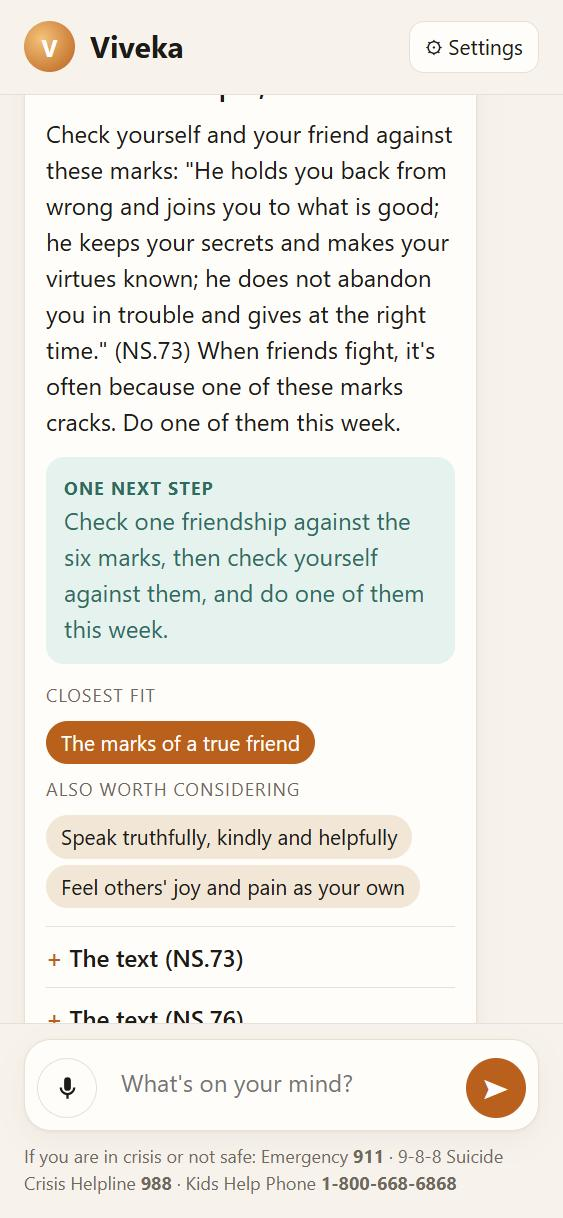
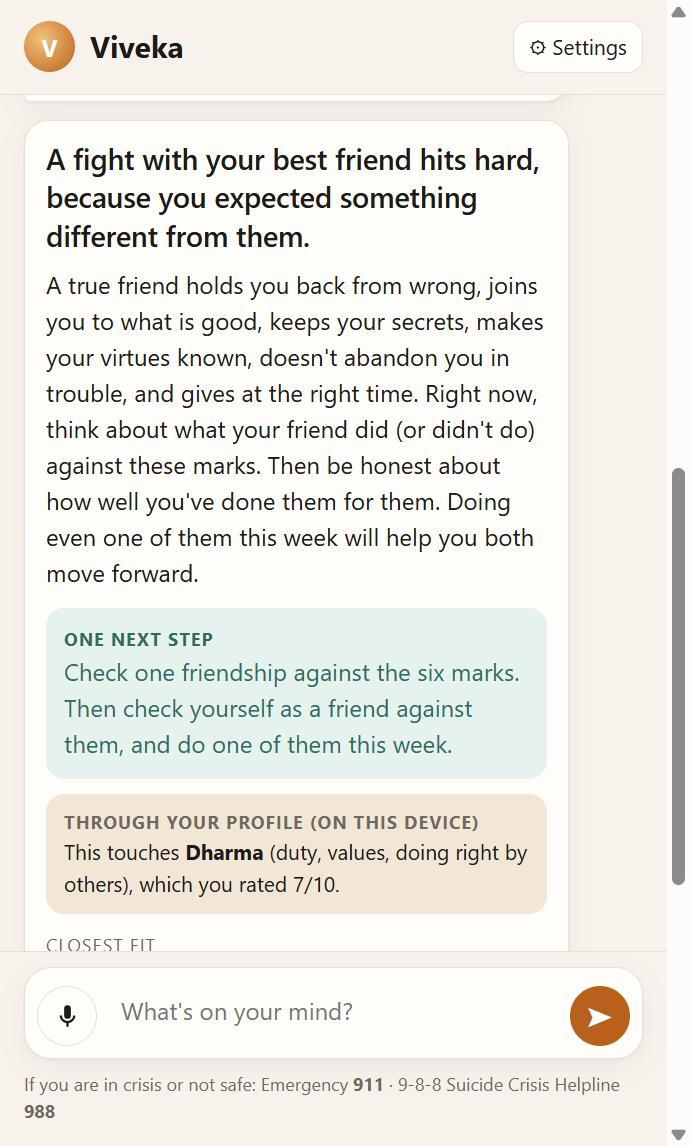
Big Five (Mini-IPIP) and life-map onboarding, kept on the device; profile note; AI writer keeps message and context apart; Desk screenshots tool

diff --git a/scripts/serve_page.html b/scripts/serve_page.html
@@ -40,6 +40,14 @@ textarea{flex:1;border:0;outline:0;resize:none;min-height:44px;max-height:160px;
 .panel h2{margin:0 0 6px;font-size:20px}.panel label{display:block;margin:14px 0 6px;font-weight:600}
 .panel input,.panel select{width:100%;border:1px solid var(--line);border-radius:10px;padding:10px;background:var(--bg);color:var(--fg);font:inherit}
 .sw{display:flex;align-items:center;gap:8px;margin-top:14px}
+.steps{display:flex;gap:4px;margin:0 0 12px}.steps i{flex:1;height:4px;border-radius:9px;background:var(--line)}.steps i.on{background:var(--acc)}
+.panel{max-height:92vh;overflow:auto}.lk{margin:10px 0 0}.lk p{margin:0 0 6px;font-size:15px}.lk .sc{display:flex;gap:4px}.lk .sc button{flex:1;border:1px solid var(--line);background:var(--bg);color:var(--fg);border-radius:8px;padding:6px 0;font:inherit;font-size:13px;cursor:pointer}.lk .sc button.on{background:var(--acc);color:#fff;border-color:var(--acc)}
+.ends{display:flex;justify-content:space-between;font-size:11px;color:var(--mut);margin-top:2px}
+.tr{margin:8px 0}.tr .r{display:flex;justify-content:space-between;font-size:14px}.tr .k{height:8px;border-radius:9px;background:var(--line);overflow:hidden;margin-top:3px}.tr .k i{display:block;height:100%;background:var(--acc)}
+.map{display:grid;grid-template-columns:1fr 1fr;gap:8px;margin-top:10px}.tile{border:1px solid var(--line);border-radius:12px;padding:10px;background:var(--bg)}.tile b{display:block}.tile .mut{font-size:12px}
+.tile input[type=range]{width:100%;accent-color:var(--acc)}.tile .val{font-weight:700;color:var(--acc)}
+.seg{display:flex;border:1px solid var(--line);border-radius:999px;overflow:hidden;margin-top:8px}.seg button{flex:1;border:0;background:none;color:var(--fg);padding:7px;font:inherit;font-size:14px;cursor:pointer}.seg button.on{background:var(--fg);color:var(--bg)}
+.lens{background:var(--soft);border-radius:12px;padding:10px 12px;margin-top:10px;font-size:14px}.lens>b:first-child{display:block;font-size:12px;letter-spacing:.06em;text-transform:uppercase;color:var(--mut)}
 form.case textarea,form.case input,form.case select{width:100%;border:1px solid var(--line);border-radius:10px;padding:8px;background:var(--bg);color:var(--fg);font:inherit;margin:4px 0}
 </style></head><body><div class="app">
 <header><div class="logo">V</div><h1>Viveka</h1><button class="icon" id="devbtn" hidden onclick="showCase()">Test case</button><button class="icon" onclick="openSettings()" title="Settings">⚙ Settings</button></header>
@@ -49,17 +57,13 @@ form.case textarea,form.case input,form.case select{width:100%;border:1px solid 
 <textarea id="q" rows="1" placeholder="What's on your mind?"></textarea><button class="send" onclick="send()" title="Send">➤</button></div>
 <div class="foot" id="foot">Local test page · not published · nothing you write is saved</div>
 </footer></div>
-<div class="overlay" id="onb" hidden><div class="panel">
-<h2>Before we start</h2><p class="mut">Two quick questions, so the help lines and answers fit you. Your answers stay on this device.</p>
-<label for="o_age">Your age</label><input id="o_age" type="number" min="10" max="110" placeholder="e.g. 34">
-<label for="o_country">Where are you?</label><select id="o_country"><option value="CA">Canada</option><option value="IN">India</option><option value="US">United States</option><option value="UK">United Kingdom</option><option value="">Somewhere else</option></select>
-<p class="mut" style="margin-top:14px">Coming next: a short personality check (Big Five) and a life map (Dharma, Artha, Kama, Moksha).</p>
-<div class="row"><button class="btn" onclick="saveOnb()">Start</button></div></div></div>
+<div class="overlay" id="onb" hidden><div class="panel" id="onbp"></div></div>
 <div class="overlay" id="set" hidden><div class="panel">
 <h2>Settings</h2>
 <label for="s_age">Age</label><input id="s_age" type="number" min="10" max="110">
 <label for="s_country">Country (for help lines)</label><select id="s_country"><option value="CA">Canada</option><option value="IN">India</option><option value="US">United States</option><option value="UK">United Kingdom</option><option value="">Somewhere else</option></select>
 <div class="sw"><input type="checkbox" id="s_ai"><span>AI-written answers <span class="mut">(uses Claude through the owner's subscription; your text leaves this device; testing only)</span></span></div>
+<div class="row"><button class="btn ghost" onclick="closeSettings();showProfile()">Your profile</button><button class="btn ghost" onclick="closeSettings();onb(2)">Redo personality and life map</button></div>
 <div class="row"><button class="btn" onclick="saveSettings()">Save</button><button class="btn ghost" onclick="closeSettings()">Cancel</button><button class="btn ghost" onclick="resetAll()">Forget me</button></div></div></div>
 <div class="overlay" id="casebox" hidden><div class="panel">
 <h2>Add a test case</h2><p class="mut">Developer only. A realistic situation the engine has never seen, and what a good answer must do. Scored once before anyone tunes against it.</p>
@@ -97,6 +101,7 @@ const a=await post('/answer',{q:cur.q,context:ctx,profile:profile(),ai:!!(prof&&
 a.cards.filter(c=>c.kind!=='support').forEach(card);
 let h=`<div class="opening">${esc(a.opening)}</div><p>${esc(a.body)}</p>`;
 if(a.next_step)h+=`<div class="step"><b>One next step</b>${esc(a.next_step)}</div>`;
+h+=lensNote(a.aims);
 if(a.closest)h+=`<div class="fit"><div class="lab">Closest fit</div><div><span class="tagc top">${esc(a.closest)}</span></div>${a.also.length?`<div class="lab">Also worth considering</div><div>${a.also.map(x=>`<span class="tagc">${esc(x)}</span>`).join('')}</div>`:''}</div>`;
 for(const s of a.sources)h+=`<details><summary>The text (${esc(s.id)})</summary><p>"${esc(s.english)}"</p><details><summary>Sanskrit</summary><div class="dev">${esc(s.devanagari)}</div></details></details>`;
 if(a.why)h+=`<details><summary>Why this fits you</summary><p>${esc(a.why)}</p></details>`;
@@ -106,11 +111,51 @@ if(a.example)h+=`<details><summary>A story from the texts</summary><p><b>${esc(a
 h+=`<p class="draft" style="margin-top:10px">Draft · ${a.reviewed} of ${a.sources.length} verses reviewed by a Sanskrit reader · written by ${esc(a.written_by)}</p>`;
 add(h,'v');$('foot').innerHTML='If you are in crisis or not safe: '+a.footer.map(x=>`${esc(x.name.split('(')[0].trim())} <b>${esc(x.number)}</b>`).join(' · ');cur=null}
 async function post(u,b){try{return await(await fetch(u,{method:'POST',headers:{'Content-Type':'application/json'},body:JSON.stringify(b)})).json()}catch(e){return{error:'Could not reach the local server.'}}}
-function saveOnb(){prof={age:$('o_age').value,country:$('o_country').value,ai:true};store.set(prof);$('onb').hidden=true;greet()}
+// Mini-IPIP (Donnellan et al., 2006): 20 public-domain IPIP items. r = reverse-scored.
+const IPIP=[["E","Am the life of the party."],["A","Sympathize with others' feelings."],["C","Get chores done right away."],["N","Have frequent mood swings."],["O","Have a vivid imagination."],
+["E","Don't talk a lot.",1],["A","Am not interested in other people's problems.",1],["C","Often forget to put things back in their proper place.",1],["N","Am relaxed most of the time.",1],["O","Am not interested in abstract ideas.",1],
+["E","Talk to a lot of different people at parties."],["A","Feel others' emotions."],["C","Like order."],["N","Get upset easily."],["O","Have difficulty understanding abstract ideas.",1],
+["E","Keep in the background.",1],["A","Am not really interested in others.",1],["C","Make a mess of things.",1],["N","Seldom feel blue.",1],["O","Do not have a good imagination.",1]];
+const TRAITS={O:["Openness","curious, imaginative"],C:["Conscientiousness","organised, dependable"],E:["Extraversion","outgoing, energised by people"],A:["Agreeableness","warm, cooperative"],N:["Emotional sensitivity","feels stress and ups and downs strongly"]};
+const PA=[["dharma","Dharma","duty, values, doing right by others"],["artha","Artha","work, money, security"],["kama","Kama","joy, love, beauty, pleasure"],["moksha","Moksha","inner freedom, meaning, peace"]];
+const IK=[["love","What you love","what lights you up"],["good","What you're good at","your strengths"],["need","What the world needs","how you help others"],["paid","What you can be paid for","your livelihood"]];
+let draft={};
+function onb(step){draft={...(prof||{age:'',country:'CA',ai:true}),...draft};$('onb').hidden=false;const P=$('onbp');const bar=`<div class="steps">${[1,2,3,4].map(i=>`<i class="${i<=step?'on':''}"></i>`).join('')}</div>`;
+if(step===1){P.innerHTML=`${bar}<h2>Before we start</h2><p class="mut">So the help lines and answers fit you. Everything you enter stays on this device.</p>
+<label for="o_age">Your age</label><input id="o_age" type="number" min="10" max="110" placeholder="e.g. 34" value="${esc(draft.age||'')}">
+<label for="o_country">Where are you?</label><select id="o_country">${[["CA","Canada"],["IN","India"],["US","United States"],["UK","United Kingdom"],["","Somewhere else"]].map(([v,n])=>`<option value="${v}" ${draft.country===v?'selected':''}>${n}</option>`).join('')}</select>
+<div class="row"><button class="btn" onclick="draft.age=$('o_age').value;draft.country=$('o_country').value;onb(2)">Next</button></div>`}
+if(step===2){draft.b5=draft.b5||{};P.innerHTML=`${bar}<h2>How you tend to be</h2><p class="mut">20 quick statements (a public-domain Big Five measure). How accurately does each describe you? Not a test or a diagnosis.</p>
+${IPIP.map((it,i)=>`<div class="lk"><p>I ${esc(it[1].charAt(0).toLowerCase()+it[1].slice(1))}</p><div class="sc" data-i="${i}">${[1,2,3,4,5].map(v=>`<button class="${draft.b5[i]===v?'on':''}" onclick="rate(this,${i},${v})">${v}</button>`).join('')}</div></div>`).join('')}
+<div class="ends"><span>1 = very inaccurate</span><span>5 = very accurate</span></div>
+<div class="row"><button class="btn" onclick="onb(3)">Next</button><button class="btn ghost" onclick="draft.b5=null;onb(3)">Skip</button></div><p class="mut" id="b5n"></p>`}
+if(step===3){draft.map=draft.map||{type:'pa',v:{}};const m=draft.map,L=m.type==='pa'?PA:IK;P.innerHTML=`${bar}<h2>Your life map</h2><p class="mut">How settled or fulfilled does each part of your life feel right now? 1 = not at all, 10 = completely.</p>
+<div class="seg"><button class="${m.type==='pa'?'on':''}" onclick="draft.map={type:'pa',v:{}};onb(3)">Dharma · Artha · Kama · Moksha</button><button class="${m.type==='ik'?'on':''}" onclick="draft.map={type:'ik',v:{}};onb(3)">Ikigai</button></div>
+<div class="map">${L.map(([k,n,d])=>`<div class="tile"><b>${n}</b><span class="mut">${d}</span><input type="range" min="1" max="10" value="${m.v[k]||5}" oninput="draft.map.v['${k}']=+this.value;this.nextElementSibling.textContent=this.value"><span class="val">${m.v[k]||5}</span></div>`).join('')}</div>
+<div class="row"><button class="btn" onclick="L3();onb(4)">Next</button><button class="btn ghost" onclick="draft.map=null;onb(4)">Skip</button></div>`}
+if(step===4){prof={...draft};store.set(prof);P.innerHTML=`${bar}<h2>Your profile</h2><p class="mut">Kept only on this device. It shapes how Viveka frames its suggestions, never what is true.</p>${profileHTML()}<div class="row"><button class="btn" onclick="$('onb').hidden=true;draft={};greet()">Start</button></div>`}}
+function L3(){const L=draft.map.type==='pa'?PA:IK;L.forEach(([k])=>{if(!draft.map.v[k])draft.map.v[k]=5})}
+function rate(b,i,v){draft.b5[i]=v;b.parentElement.querySelectorAll('button').forEach(x=>x.classList.toggle('on',x===b));const n=Object.keys(draft.b5).length;$('b5n').textContent=n<20?`${n} of 20 answered`:'All answered'}
+function big5(b5){if(!b5)return null;const sum={},cnt={};IPIP.forEach((it,i)=>{const v=b5[i];if(!v)return;sum[it[0]]=(sum[it[0]]||0)+(it[2]?6-v:v);cnt[it[0]]=(cnt[it[0]]||0)+1});
+const out={};for(const t in TRAITS)if(cnt[t])out[t]=Math.round(((sum[t]/cnt[t])-1)/4*100);return Object.keys(out).length?out:null}
+function profileHTML(){const p=prof||{},b=big5(p.b5),m=p.map;let h='';
+if(b)h+=`<div class="lab" style="margin-top:8px;font-size:12px;letter-spacing:.06em;text-transform:uppercase;color:var(--mut)">How you tend to be</div>`+Object.entries(TRAITS).filter(([t])=>t in b).map(([t,[n,d]])=>`<div class="tr"><div class="r"><span>${n} <span class="mut">· ${d}</span></span><span class="mut">${b[t]<35?'lower':b[t]>65?'higher':'middle'}</span></div><div class="k"><i style="width:${b[t]}%"></i></div></div>`).join('');
+if(m){const L=m.type==='pa'?PA:IK;h+=`<div style="margin-top:12px;font-size:12px;letter-spacing:.06em;text-transform:uppercase;color:var(--mut)">Your life map${m.type==='ik'?' (Ikigai)':''}</div><div class="map">${L.map(([k,n,d])=>`<div class="tile"><b>${n} <span class="val">${m.v[k]}/10</span></b><span class="mut">${d}</span><div class="tr"><div class="k"><i style="width:${m.v[k]*10}%"></i></div></div></div>`).join('')}</div>`}
+return h||'<p class="mut">No personality or life map answers yet.</p>'}
+function showProfile(){$('onb').hidden=false;$('onbp').innerHTML=`<h2>Your profile</h2><p class="mut">Kept only on this device.</p>${profileHTML()}<div class="row"><button class="btn" onclick="$('onb').hidden=true">Close</button><button class="btn ghost" onclick="onb(2)">Redo</button></div>`}
+// A short note computed on this device only: nothing about the profile is sent anywhere.
+function lensNote(aims){const p=prof||{},b=big5(p.b5),m=p.map,out=[];
+if(m&&aims&&aims.length){if(m.type==='pa'){const a=PA.find(x=>x[0]===aims[0]);if(a){const v=m.v[a[0]];out.push(`This touches <b>${a[1]}</b> (${a[2]}), which you rated ${v}/10${v<=4?': an area that feels unsettled, so go gently':v>=8?': a strength you can lean on':''}.`)}}
+else{const map={artha:'paid',dharma:'need',kama:'love'};const k=map[aims[0]];const a=IK.find(x=>x[0]===k);if(a)out.push(`This touches <b>${a[1]}</b>, which you rated ${m.v[k]}/10.`)}}
+if(b){if(b.C!==undefined&&b.C<35)out.push('You said routines are not your strongest suit: make the next step small and give it a time.');
+else if(b.N!==undefined&&b.N>65)out.push('You said you feel things strongly: take the next step slowly, and pause if it feels heavy.');
+else if(b.E!==undefined&&b.E<35&&aims)out.push('If talking to people drains you, a written message is a fine first step.')}
+return out.length?`<div class="lens"><b>Through your profile (on this device)</b>${out.join(' ')}</div>`:''}
+function saveOnb(){onb(2)}
 function openSettings(){const p=prof||{};$('s_age').value=p.age||'';$('s_country').value=p.country??'CA';$('s_ai').checked=!!p.ai;$('set').hidden=false}
 function closeSettings(){$('set').hidden=true}
 function saveSettings(){prof={...(prof||{}),age:$('s_age').value,country:$('s_country').value,ai:$('s_ai').checked};store.set(prof);closeSettings()}
-function resetAll(){store.clear();prof=null;closeSettings();$('onb').hidden=false}
+function resetAll(){store.clear();prof=null;draft={};closeSettings();onb(1)}
 function showCase(){$('casebox').hidden=false}
 async function addCase(e){e.preventDefault();const b={text:$('ct').value.trim(),category:$('cc').value,safety:$('cs').value||null,good_answer:$('cg').value.trim(),author:$('cn').value.trim()};
 if(!b.text||!b.good_answer||!b.author){$('cout').innerHTML='<p class="mut">Please fill in the situation, what a good answer must do, and your name.</p>';return}
@@ -120,5 +165,5 @@ if(rec){rec.stop();return}rec=new SR();rec.lang='en-IN';rec.interimResults=true;
 rec.onresult=e=>{let t='';for(const r of e.results)t+=r[0].transcript;q.value=(base?base+' ':'')+t};rec.onend=()=>{m.classList.remove('rec');rec=null};rec.onerror=()=>{m.classList.remove('rec');rec=null};
 m.classList.add('rec');$('foot').textContent="Listening… Voice is turned into text by your browser's speech service, which may send the audio to its provider.";rec.start()}
 $('q').addEventListener('keydown',e=>{if(e.key==='Enter'&&!e.shiftKey){e.preventDefault();send()}});
-if(!prof)$('onb').hidden=false;else greet();
+if(!prof)onb(1);else greet();
 </script></body></html>

diff --git a/scripts/brief.py b/scripts/brief.py
@@ -13,12 +13,45 @@ SHOTS = ROOT / "claude-chat" / "screenshots"
 REPO = "https://github.com/yjzw6km8y5-hub/viveka"
 RAW = "https://raw.githubusercontent.com/yjzw6km8y5-hub/viveka/main"
 
-INTERFACE = """### Screen 1: Onboarding (first visit only)
-- Panel title **Before we start**. Text: "Two quick questions, so the help lines and answers fit you. Your answers stay on this device."
-- **Your age**: number field, placeholder "e.g. 34".
-- **Where are you?**: Canada (default) / India / United States / United Kingdom / Somewhere else.
-- Note: "Coming next: a short personality check (Big Five) and a life map (Dharma, Artha, Kama, Moksha)."
-- Button **Start**. The answers are kept in the browser on this device only; nothing is sent anywhere except with each question to the local engine.
+INTERFACE = """### Screen 1: Onboarding (first visit only; four steps with a progress bar)
+1. **Before we start:** "So the help lines and answers fit you. Everything you enter stays on this device."
+   - **Your age**: number, placeholder "e.g. 34".
+   - **Where are you?**: Canada (default) / India / United States / United Kingdom / Somewhere else.
+   - **Next**.
+2. **How you tend to be:** "20 quick statements (a public-domain Big Five measure). How accurately does each describe you? Not a test or a diagnosis."
+   - The 20 Mini-IPIP statements, each with buttons 1-5 ("1 = very inaccurate", "5 = very accurate"):
+     - "I am the life of the party."
+     - "I sympathize with others' feelings."
+     - "I get chores done right away."
+     - "I have frequent mood swings."
+     - "I have a vivid imagination."
+     - "I don't talk a lot."
+     - "I am not interested in other people's problems."
+     - "I often forget to put things back in their proper place."
+     - "I am relaxed most of the time."
+     - "I am not interested in abstract ideas."
+     - "I talk to a lot of different people at parties."
+     - "I feel others' emotions."
+     - "I like order."
+     - "I get upset easily."
+     - "I have difficulty understanding abstract ideas."
+     - "I keep in the background."
+     - "I am not really interested in others."
+     - "I make a mess of things."
+     - "I seldom feel blue."
+     - "I do not have a good imagination."
+   - A counter ("N of 20 answered"). **Next** and **Skip**.
+3. **Your life map:** "How settled or fulfilled does each part of your life feel right now? 1 = not at all, 10 = completely."
+   - A switch: **Dharma · Artha · Kama · Moksha** | **Ikigai**.
+   - Four tiles, each with a 1-10 slider:
+     - Dharma "duty, values, doing right by others", Artha "work, money, security", Kama "joy, love, beauty, pleasure", Moksha "inner freedom, meaning, peace".
+     - Or, for Ikigai: "What you love", "What you're good at", "What the world needs", "What you can be paid for".
+   - **Next** and **Skip**.
+4. **Your profile:** "Kept only on this device. It shapes how Viveka frames its suggestions, never what is true."
+   - Five trait bars: Openness, Conscientiousness, Extraversion, Agreeableness, Emotional sensitivity. Each has a short description and is marked lower / middle / higher.
+   - The life map as four tiles with N/10 bars.
+   - **Start**.
+- Everything stays in the browser on this device. The profile itself is never sent to the server or to the AI.
 
 ### Screen 2: Conversation (home)
 - Header: "V" logo, **Viveka**, **⚙ Settings**. (A **Test case** button appears only with `?dev=1`.)
@@ -50,6 +83,7 @@ INTERFACE = """### Screen 1: Onboarding (first visit only)
 - **Opening:** one sentence to the person, in large text, e.g. "After a fight with someone close, it can help to look at what a true friend does."
 - **Body:** a short paragraph (AI-written from the checked passages, or Viveka's own text if AI is off or fails the check).
 - **ONE NEXT STEP:** a green box with one action.
+- **THROUGH YOUR PROFILE (ON THIS DEVICE):** a sand-coloured note worked out in the browser. For example, "This touches **Dharma** (duty, values, doing right by others), which you rated 7/10." It adds one tip from the Big Five when relevant: low conscientiousness gives "make the next step small and give it a time"; high emotional sensitivity gives "take the next step slowly…"; low extraversion gives "a written message is a fine first step".
 - **CLOSEST FIT:** the principle, as an orange tag.
 - **ALSO WORTH CONSIDERING:** one or two principles, as tags.
 - **Folded sections:**
@@ -60,6 +94,7 @@ INTERFACE = """### Screen 1: Onboarding (first visit only)
 ### Screen 5: Settings (⚙)
 - **Age**, **Country (for help lines)**.
 - **AI-written answers** checkbox, labelled "uses Claude through the owner's subscription; your text leaves this device; testing only".
+- Buttons **Your profile** (shows the profile summary) and **Redo personality and life map**.
 - Buttons **Save**, **Cancel**, **Forget me** (clears the device profile and shows onboarding again).
 
 ### Screen 6: Add a test case (developer only, `?dev=1`)

diff --git a/engine/llm.py b/engine/llm.py
@@ -29,6 +29,9 @@ Rules:
 - Then say what you suggest and why it fits THEIR situation, in 2-4 sentences.
 - Use only facts the person stated, and never join separate facts they did not join (for example, do not assume
   the person they mention is someone they live with). If unsure, leave it out.
+- "background" holds the person's answers to quick context questions (who they live with, constraints, timing).
+  Use it only to fit the advice; never claim it is connected to their message, and do not mention it unless it
+  clearly changes the advice.
 - You may quote a passage only word for word from the English given, in double quotes, with its ID in brackets,
   e.g. "..." (BG.2.47). Never quote or paraphrase anything not given. Never invent facts about the person.
 - Mention the alternative view in one sentence, fairly.
@@ -69,7 +72,8 @@ def available():
 def material(a):
     rec = a.get("recommendation") or {}
     return {
-        "message": a.get("question", ""),
+        "message": a.get("user_message") or a.get("question", ""),
+        "background": a.get("background", []),
         "understood": {k: a["understanding"].get(k) for k in ("situations", "people", "options", "age", "frames")},
         "recommended": {"principle": rec.get("name"), "meaning": rec.get("text"), "fit": rec.get("why_it_fits_you"),
                         "application": rec.get("application")},

diff --git a/scripts/desk_screens.py b/scripts/desk_screens.py
@@ -1,0 +1,34 @@
+"""Overwrite, in place, the four screenshots the Claude chat reads in AI Review Desk/Viveka (CLAUDE.md section 15).
+
+  python scripts/desk_screens.py HOME.jpg ANSWER_TOP.jpg ANSWER_DETAILS.jpg PHONE.jpg
+
+screen1 = home; screen2 = top of an answer ("I had a fight with my best friend"); screen3 = the details of that
+answer; screen4 = phone width, any answer. Take them in the browser pane at http://127.0.0.1:8765 after every UI change.
+The files are created by the Claude chat and must keep their identity: they are overwritten in place, never deleted,
+renamed or recreated. A missing file is reported, not created.
+"""
+import sys
+from pathlib import Path
+
+DESK = Path(__file__).resolve().parent.parent.parent / "AI Review Desk" / "Viveka"
+
+
+def main():
+    srcs = sys.argv[1:]
+    if len(srcs) != 4:
+        sys.exit(__doc__)
+    for i, src in enumerate(srcs, 1):
+        dest = DESK / f"screen{i}.jpg"
+        if not dest.exists():
+            print(f"{dest.name}: not found; not created (the Claude chat must create it)")
+            continue
+        data = Path(src).read_bytes()
+        with open(dest, "r+b") as f:  # same file, same Drive ID
+            f.seek(0)
+            f.write(data)
+            f.truncate()
+        print(f"{dest.name}: overwritten in place ({len(data)} bytes)")
+
+
+if __name__ == "__main__":
+    main()

diff --git a/scripts/serve.py b/scripts/serve.py
@@ -114,7 +114,10 @@ def compose(q, ctx):
 
 def respond(b):
     prof, region = profile_of(b)
-    a = answer(compose(str(b.get("q", ""))[:4000], b.get("context"))[:6000], prof, mode="internal", region=region)
+    q = str(b.get("q", ""))[:4000]
+    a = answer(compose(q, b.get("context"))[:6000], prof, mode="internal", region=region)
+    a["user_message"] = q  # the AI writer sees the message and the context answers separately
+    a["background"] = [x for x in compose("", b.get("context")).split(". ") if x.strip()]
     written, note = (llm.write(a) if b.get("ai") else (None, "AI writing is off in settings"))
     rec = a.get("recommendation") or {}
     meaning = rec.get("text", "")
@@ -130,6 +133,7 @@ def respond(b):
         "body": (written or {}).get("answer") or meaning,
         "next_step": (written or {}).get("next_step") or (a.get("next_step") or {}).get("text"),
         "closest": rec.get("name"), "also": [c["name"] for c in comp[1:3]],
+        "aims": lib["principles"].get(rec.get("principle"), {}).get("aims", []),
         "why": rec.get("why_it_fits_you"), "application": rec.get("application"),
         "sources": [{"id": s["id"], "english": s["english"], "devanagari": s["devanagari"]} for s in a.get("sources", [])],
         "alternative": (written or {}).get("alternative") or (a.get("challenge") or {}).get("text"),

diff --git a/claude-chat/BRIEF.md b/claude-chat/BRIEF.md
@@ -1,6 +1,6 @@
 # Viveka: brief for the Claude planning chat
 
-_Updated 2026-10-03 01:46 Eastern Daylight Time by `scripts/brief.py` after a cycle. Repo: https://github.com/yjzw6km8y5-hub/viveka_
+_Updated 2026-10-03 01:58 Eastern Daylight Time by `scripts/brief.py` after a cycle. Repo: https://github.com/yjzw6km8y5-hub/viveka_
 
 ## Current status
 
@@ -10,7 +10,7 @@ _Updated 2026-10-03 01:46 Eastern Daylight Time by `scripts/brief.py` after a cy
 
   0. **Owner decisions of 2026-10-03, build now** (CONTEXT.md):
      - **Context-first answer flow:** before recommending, ask about who they live with, where they are and their constraints. Offer a "just answer" option. Show safety and health help at once, and never delay them.
-     - **Visual onboarding on the try-it page** (age and country done 2026-10-03; still to build):
+     - **Visual onboarding on the try-it page** (done 2026-10-03: age, country, Big Five, life map):
        - a short Big Five questionnaire, using public-domain IPIP items
        - a Dharma / Artha / Kama / Moksha life map, with Ikigai as an alternative
        - the profile stays in the browser for the visit only; never send or save it
@@ -42,11 +42,12 @@ _Updated 2026-10-03 01:46 Eastern Daylight Time by `scripts/brief.py` after a cy
 
 - **Cycles:** 6 (5 ok, 1 failed); by builder: codex 1, claude 5.
 - **Not yet reviewed by the other tool:** 0.
-- **Commits:** 37.
+- **Commits:** 38.
 - **Failed:** cycle 4, push blocked by external-transfer approval boundary; local commits ready
 
 <details><summary>Commits</summary>
 
+- 10-03 01:46  Conversation UI (owner list a-h): context questions first, one answer, onboarding, settings, closest fit, help lines by country incl. Canada, Sanskrit folded; owner decisions; brief with roadmap for review
 - 10-03 01:33  Brief also overwritten in place in AI Review Desk/Viveka/BRIEF.md for the Claude chat
 - 10-03 01:31  Verse check complete: owner review list rebuilt; brief refreshed
 - 10-03 01:30  Owner decisions of 2026-10-03 (scope later phase; context-first flow; Big Five and life-map onboarding; profile storage open); claude-chat/BRIEF.md with screenshots; verse check 39/39
@@ -89,12 +90,45 @@ _Updated 2026-10-03 01:46 Eastern Daylight Time by `scripts/brief.py` after a cy
 
 ## The interface, screen by screen
 
-### Screen 1: Onboarding (first visit only)
-- Panel title **Before we start**. Text: "Two quick questions, so the help lines and answers fit you. Your answers stay on this device."
-- **Your age**: number field, placeholder "e.g. 34".
-- **Where are you?**: Canada (default) / India / United States / United Kingdom / Somewhere else.
-- Note: "Coming next: a short personality check (Big Five) and a life map (Dharma, Artha, Kama, Moksha)."
-- Button **Start**. The answers are kept in the browser on this device only; nothing is sent anywhere except with each question to the local engine.
+### Screen 1: Onboarding (first visit only; four steps with a progress bar)
+1. **Before we start:** "So the help lines and answers fit you. Everything you enter stays on this device."
+   - **Your age**: number, placeholder "e.g. 34".
+   - **Where are you?**: Canada (default) / India / United States / United Kingdom / Somewhere else.
+   - **Next**.
+2. **How you tend to be:** "20 quick statements (a public-domain Big Five measure). How accurately does each describe you? Not a test or a diagnosis."
+   - The 20 Mini-IPIP statements, each with buttons 1-5 ("1 = very inaccurate", "5 = very accurate"):
+     - "I am the life of the party."
+     - "I sympathize with others' feelings."
+     - "I get chores done right away."
+     - "I have frequent mood swings."
+     - "I have a vivid imagination."
+     - "I don't talk a lot."
+     - "I am not interested in other people's problems."
+     - "I often forget to put things back in their proper place."
+     - "I am relaxed most of the time."
+     - "I am not interested in abstract ideas."
+     - "I talk to a lot of different people at parties."
+     - "I feel others' emotions."
+     - "I like order."
+     - "I get upset easily."
+     - "I have difficulty understanding abstract ideas."
+     - "I keep in the background."
+     - "I am not really interested in others."
+     - "I make a mess of things."
+     - "I seldom feel blue."
+     - "I do not have a good imagination."
+   - A counter ("N of 20 answered"). **Next** and **Skip**.
+3. **Your life map:** "How settled or fulfilled does each part of your life feel right now? 1 = not at all, 10 = completely."
+   - A switch: **Dharma · Artha · Kama · Moksha** | **Ikigai**.
+   - Four tiles, each with a 1-10 slider:
+     - Dharma "duty, values, doing right by others", Artha "work, money, security", Kama "joy, love, beauty, pleasure", Moksha "inner freedom, meaning, peace".
+     - Or, for Ikigai: "What you love", "What you're good at", "What the world needs", "What you can be paid for".
+   - **Next** and **Skip**.
+4. **Your profile:** "Kept only on this device. It shapes how Viveka frames its suggestions, never what is true."
+   - Five trait bars: Openness, Conscientiousness, Extraversion, Agreeableness, Emotional sensitivity. Each has a short description and is marked lower / middle / higher.
+   - The life map as four tiles with N/10 bars.
+   - **Start**.
+- Everything stays in the browser on this device. The profile itself is never sent to the server or to the AI.
 
 ### Screen 2: Conversation (home)
 - Header: "V" logo, **Viveka**, **⚙ Settings**. (A **Test case** button appears only with `?dev=1`.)
@@ -126,6 +160,7 @@ _Updated 2026-10-03 01:46 Eastern Daylight Time by `scripts/brief.py` after a cy
 - **Opening:** one sentence to the person, in large text, e.g. "After a fight with someone close, it can help to look at what a true friend does."
 - **Body:** a short paragraph (AI-written from the checked passages, or Viveka's own text if AI is off or fails the check).
 - **ONE NEXT STEP:** a green box with one action.
+- **THROUGH YOUR PROFILE (ON THIS DEVICE):** a sand-coloured note worked out in the browser. For example, "This touches **Dharma** (duty, values, doing right by others), which you rated 7/10." It adds one tip from the Big Five when relevant: low conscientiousness gives "make the next step small and give it a time"; high emotional sensitivity gives "take the next step slowly…"; low extraversion gives "a written message is a fine first step".
 - **CLOSEST FIT:** the principle, as an orange tag.
 - **ALSO WORTH CONSIDERING:** one or two principles, as tags.
 - **Folded sections:**
@@ -136,6 +171,7 @@ _Updated 2026-10-03 01:46 Eastern Daylight Time by `scripts/brief.py` after a cy
 ### Screen 5: Settings (⚙)
 - **Age**, **Country (for help lines)**.
 - **AI-written answers** checkbox, labelled "uses Claude through the owner's subscription; your text leaves this device; testing only".
+- Buttons **Your profile** (shows the profile summary) and **Redo personality and life map**.
 - Buttons **Save**, **Cancel**, **Forget me** (clears the device profile and shows onboarding again).
 
 ### Screen 6: Add a test case (developer only, `?dev=1`)
@@ -149,10 +185,12 @@ _Updated 2026-10-03 01:46 Eastern Daylight Time by `scripts/brief.py` after a cy
 
 ## Screenshots
 
-- [1-onboarding](https://raw.githubusercontent.com/yjzw6km8y5-hub/viveka/main/claude-chat/screenshots/1-onboarding.jpg)
+- [1-onboarding-profile](https://raw.githubusercontent.com/yjzw6km8y5-hub/viveka/main/claude-chat/screenshots/1-onboarding-profile.jpg)
 - [2-home](https://raw.githubusercontent.com/yjzw6km8y5-hub/viveka/main/claude-chat/screenshots/2-home.jpg)
 - [3-context-questions](https://raw.githubusercontent.com/yjzw6km8y5-hub/viveka/main/claude-chat/screenshots/3-context-questions.jpg)
 - [4-answer](https://raw.githubusercontent.com/yjzw6km8y5-hub/viveka/main/claude-chat/screenshots/4-answer.jpg)
+- [5-answer-details](https://raw.githubusercontent.com/yjzw6km8y5-hub/viveka/main/claude-chat/screenshots/5-answer-details.jpg)
+- [6-answer-phone](https://raw.githubusercontent.com/yjzw6km8y5-hub/viveka/main/claude-chat/screenshots/6-answer-phone.jpg)
 
 ## Owner decisions and what is still open
 

diff --git a/STATUS.md b/STATUS.md
@@ -28,7 +28,7 @@ _Item 1 is from PROCESS.md v3 (approved by the owner 2026-10-02). Items 2-3 are 
 ## Next step
 0. **Owner decisions of 2026-10-03, build now** (CONTEXT.md):
    - **Context-first answer flow:** before recommending, ask about who they live with, where they are and their constraints. Offer a "just answer" option. Show safety and health help at once, and never delay them.
-   - **Visual onboarding on the try-it page** (age and country done 2026-10-03; still to build):
+   - **Visual onboarding on the try-it page** (done 2026-10-03: age, country, Big Five, life map):
      - a short Big Five questionnaire, using public-domain IPIP items
      - a Dharma / Artha / Kama / Moksha life map, with Ikigai as an alternative
      - the profile stays in the browser for the visit only; never send or save it
@@ -49,6 +49,7 @@ and `PROGRESS.md`). Items that need a human reader of Sanskrit are listed at the
 
 ## Handoff
 _Newest note first. Each tool ends its turn with a note here (CLAUDE.md section 13)._
+- 2026-10-03 01:57, builder: claude. Built the Big Five (Mini-IPIP, 20 public-domain items) and life-map (Purusharthas or Ikigai) onboarding. It stays on the device, and a 'Through your profile' note is worked out in the browser. Tested end to end in the browser; fixed the AI joining separate facts (message and context now separate) and a note style bug. The Desk screenshots screen1-4 were overwritten in place (`scripts/desk_screens.py`). **Needs review by Codex** (serve_page.html onboarding, serve.py aims and background, engine/llm.py).
 - 2026-10-03 01:46, builder: claude. Built the owner's UI list a-h (conversation flow with context questions first, one answer, settings, onboarding with age and country, Closest fit / Also worth considering, help lines by country including Canada, English first with Sanskrit folded, an opening sentence, a dev-only test-case form). Tested end to end in the browser and fixed what it showed: hidden panels, the reflection wording, youth help lines shown to adults, the AI joining separate facts. Logged the owner decisions (profile on device; LLM on subscription until a zero-data-retention API; roadmap after the Claude chat review; push pre-approved). Brief updated with the roadmap in full. **Needs review by Codex** (scripts/serve.py, serve_page.html, engine/llm.py, engine/core.py help_lines).
 - 2026-10-03 01:30, builder: claude. Logged the owner decisions of 2026-10-03 (later-phase scope; context-first flow; Big Five and life-map onboarding; profile storage open) in DECISIONS.md and CONTEXT.md, and queued the build as Next step 0. Added `claude-chat/BRIEF.md` (written by `scripts/brief.py`; refresh after every cycle, CLAUDE.md section 15).
 - 2026-10-03 01:20, builder: claude. Owner asked for a visible, simpler, more visual, LLM-based product. Done: the local try-it page (`python scripts/serve.py`, http://127.0.0.1:8765) was rebuilt with a headline answer, one next step, a situation map with an urgency ring, 1-10 perspective bars, an honest reviewed-verses count, simple example prompts, a microphone (the browser's speech service), and folded details. Added the LLM writing step (`engine/llm.py`, retrieval-augmented generation via the Claude Code CLI on the existing subscription, no tools, no saved session): the engine retrieves and checks, the model only rewords, and its text is checked (exact quotes, given IDs only, no 'deserved' or 'punishment', no deity voice) before it is shown. Fixed friend-fight detection. Asked ChatGPT for a competitor UI/UX review (Desk: REQUEST_ui_review_from_claude.md; screenshots in `docs/ui/`) and for 30 independent test cases. **Needs review by Codex** (engine/llm.py, scripts/serve.py, serve_page.html).

diff --git a/DECISIONS.md b/DECISIONS.md
@@ -398,3 +398,10 @@ Technical choices made without asking, newest last. Format: date, decision, why.
   - **g.** The answer opens with one sentence to the person, not a principle name.
   - **h.** "Add a test case" is behind `?dev=1`.
 - **LLM rule added after the browser test:** the AI may use only facts the person stated, and must not join separate facts. It had assumed the "best friend" was a roommate.
+- **Big Five and life-map onboarding built (2026-10-03, owner decision c):**
+  - Step 2 is the 20-item Mini-IPIP (Donnellan et al., 2006). IPIP items are public domain. It is scored in the browser as 0-100 per trait and shown only as lower / middle / higher, with "Emotional sensitivity" in place of the clinical "neuroticism".
+  - Step 3 is the life map: Dharma, Artha, Kama and Moksha, or the four Ikigai circles, each rated 1-10 for how settled it feels.
+  - The profile stays on the device (owner decision). It is never sent to the server or the AI. The answer shows a "Through your profile" note worked out in the browser from the closest principle's aim (the server returns only the principle's aims) plus one Big Five tip.
+  - The profile frames suggestions and never changes which passages are true or recommended. Both questionnaire steps can be skipped.
+- **AI writer: message and context kept apart (2026-10-03).** It joined separate facts twice ("best friend" as roommate; a friend fight making "home" harder). It now gets the person's message and their context answers as separate fields, with a rule never to connect them.
+

diff --git a/CLAUDE.md b/CLAUDE.md
@@ -192,4 +192,11 @@ After each piece of work, update `PROGRESS.md` with what's done and what's next.
   the last 24 hours of the runner log, the interface screen by screen, and links to screenshots in `claude-chat/screenshots/`.
 - Whenever the try-it page changes, update the screen-by-screen text in `scripts/brief.py` and save fresh screenshots to
   `claude-chat/screenshots/`.
+- After every UI change, take fresh screenshots in the browser pane at http://127.0.0.1:8765 and overwrite, in place,
+  `AI Review Desk/Viveka/screen1.jpg` to `screen4.jpg` with `python scripts/desk_screens.py HOME ANSWER_TOP ANSWER_DETAILS PHONE`:
+  - screen1: the home screen
+  - screen2: the top of the answer to "I had a fight with my best friend"
+  - screen3: the details of that answer
+  - screen4: any answer at phone width
+  Never delete, rename or recreate these files.
 
